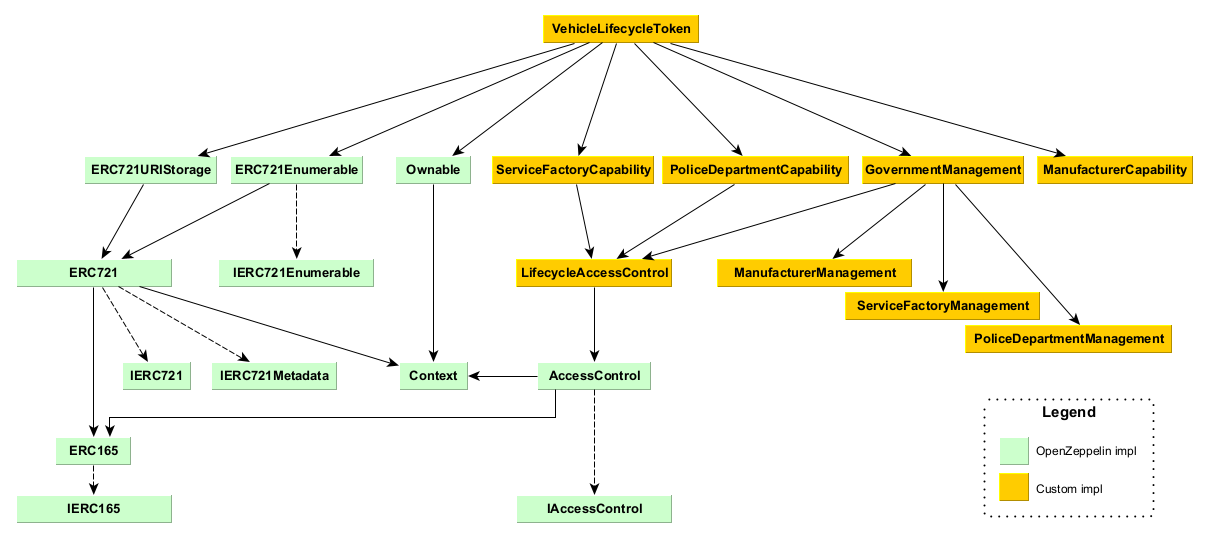
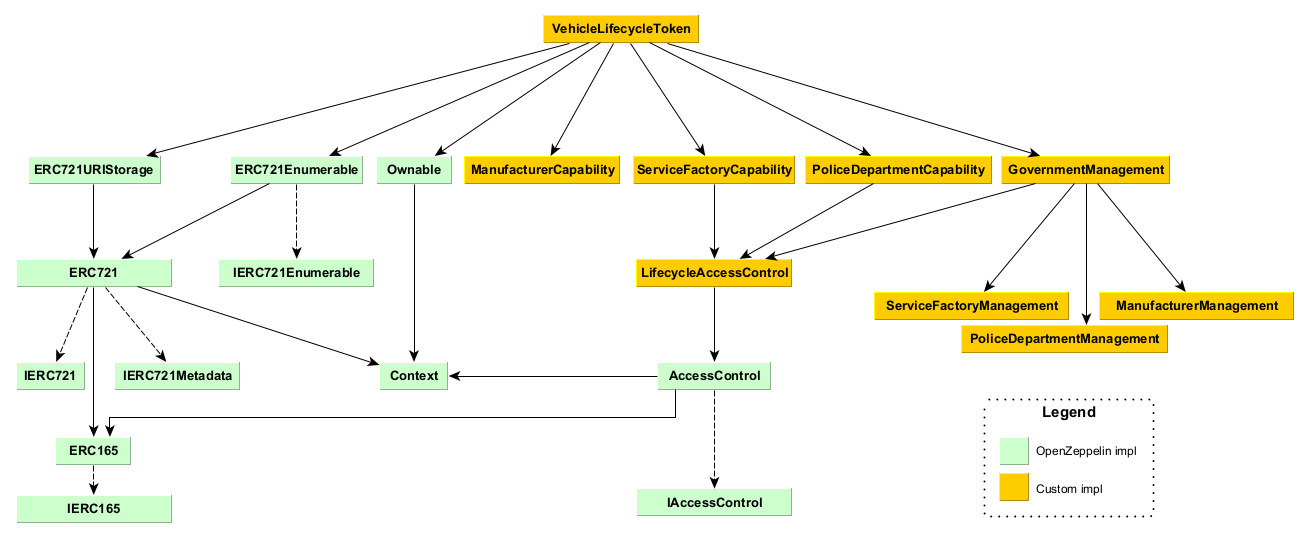
update smart contract class diagram

diff --git a/docs/smart-contracts.md b/docs/smart-contracts.md
@@ -23,6 +23,10 @@ Please note that there is no `GovernmentCapability.sol` - Government is only reg
 
 To optimize contract size in future all `*Capabilities` could be converted to separate contracts, so main contract would delegate calls to capability contracts.
 
+## Smart contract class diagram
+
+![Class diagram](images/class-diagram.png)
+
 ## Design patterns
 
 There are several design patterns used in this project:
